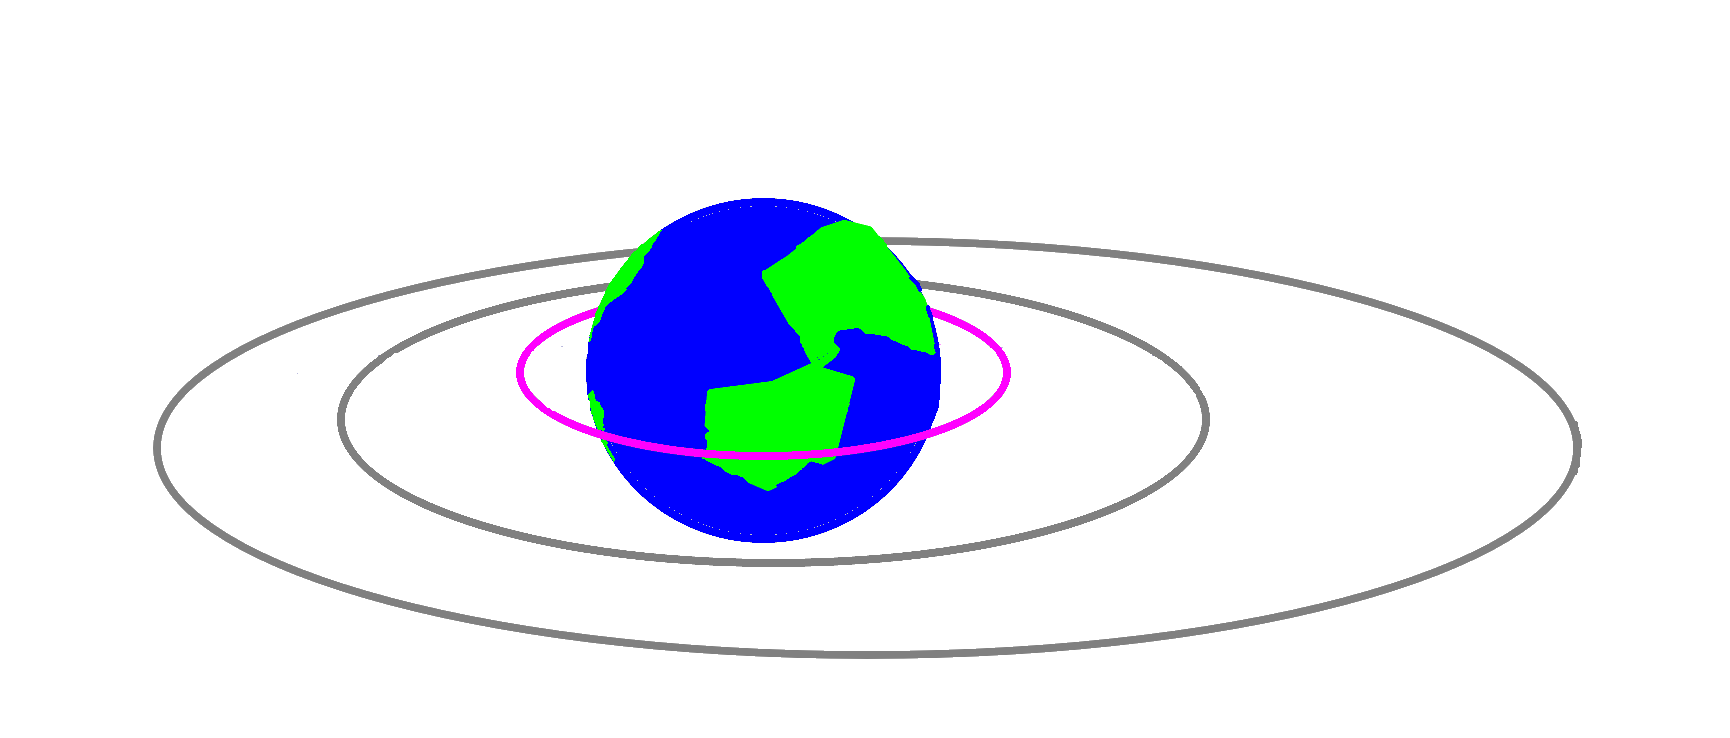
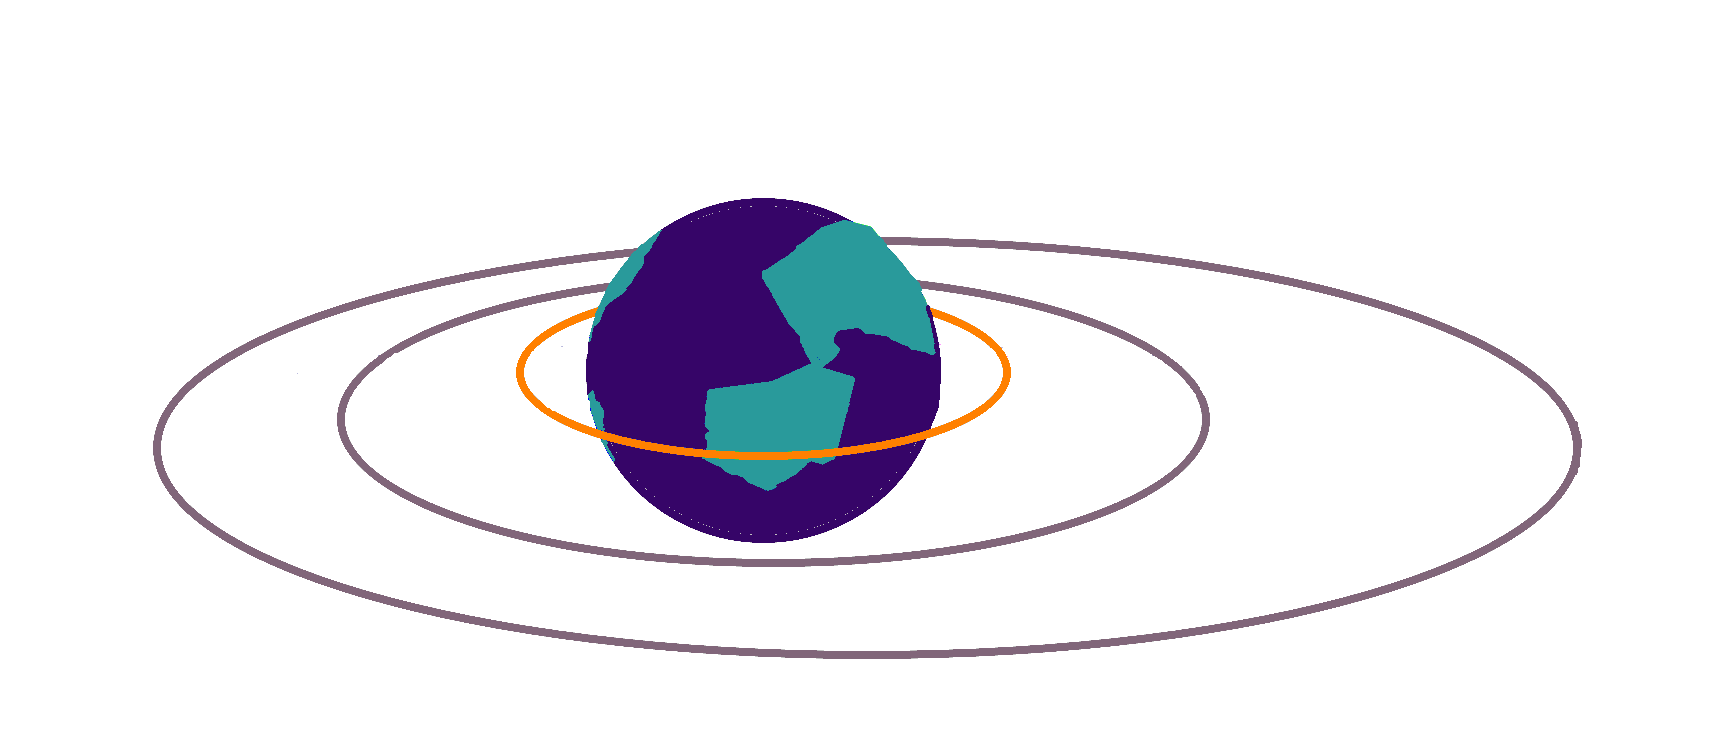
Changing some Visual aspects and Orbits in Simulation (#89)

diff --git a/frontend-vue/src/views/Simulation.vue b/frontend-vue/src/views/Simulation.vue
@@ -19,8 +19,8 @@ const props = defineProps<{
 }>()
 
 const basic_alt = 153000 + 6371 * 1000 // Add Earth's radius
-const showOrbit = ref(false);
-const CURRENT_COLOR = '#34b4b5' //'#FF00FF' // '#F5EEF8' (pink);
+const showOrbit = ref(true);
+const CURRENT_COLOR = '#34b4b5' //Blue
 const satellites = ref<Satellite[]>([]);
 
 let sat: Satellite
@@ -60,8 +60,6 @@ function update_display(sat: Satellite) {
   e.value = sat.satData.ecco * 100
   picked.value = 0
 
-  showOrbit.value = false // TODO: I am not 100% sure, maybe it should be true
-
   // Update sat-list
   satellites.value = props.simulation.getNameOfSats()
 }
@@ -83,11 +81,8 @@ function add_new_satellite(alt: number) {
   update_display(new_sat)
   new_sat.country = 'NL'
 
-  // Orbit
-  if (showOrbit.value) {
-    const orbit = props.simulation.addOrbit(new_sat, true)
-    new_sat.setOrbit(orbit)
-  }
+  // Add orbit
+  create_orbit(new_sat)
 
   // Update sat-list
   satellites.value = props.simulation.getNameOfSats()
@@ -102,17 +97,30 @@ function add_new_satellite(alt: number) {
  *  */
 function change_selected(satellite: Satellite) {
   if (satellite != sat) {
+    // Remove prev orbit display
+    if (sat){
+      props.simulation.removeOrbit(sat)
+    }
     set_current_sat(satellite)
     props.simulation.deselect()
     props.simulation.setCurrentlySelected(satellite)
     props.simulation.changeColor(CURRENT_COLOR, satellite)
     update_display(sat)
+    // Show orbit
+    create_orbit(satellite)
   }
 }
 
 function set_current_sat(satellite: Satellite) {
   sat = satellite
   current_sat.value = sat
+}
+
+function create_orbit(satellite: Satellite){
+  // Add orbit
+  props.simulation.removeOrbit(satellite)
+  const orbit = props.simulation.addOrbit(satellite, true)
+  satellite.setOrbit(orbit)
 }
 
 // ********* SLIDERS *********
@@ -186,16 +194,6 @@ watch(remove, (newValue) => {
   }
 })
 
-// ********* ORBIT shown *********
-watch(showOrbit, (newValue) => {
-  if (newValue === true) {
-    const orbit = props.simulation.addOrbit(sat, true)
-    sat.setOrbit(orbit)
-  } else {
-    props.simulation.removeOrbit(sat)
-  }
-})
-
 // ********* Clicked sat can be edited *********
 props.simulation.addEventListener('select', (satellite) => {
   if (satellite) {
@@ -249,16 +247,12 @@ props.simulation.addEventListener('select', (satellite) => {
     </div>
     <br />
     <div class="button-box">
-      <button class="add-button" @click="add = 1" style="text-align: center">
-        {{ t('Add another satellite') }}
+      <button class="add-del-button" @click="add = 1" style="text-align: center">
+        {{ t('Add satellite') }}
       </button>
-      <button class="del-button" @click="remove = 1" style="text-align: center">
+      <button class="add-del-button" @click="remove = 1" style="text-align: center">
         {{ t('Delete satellites') }}
       </button>
-    </div>
-    <div class="show-orbit-check">
-      <input type="checkbox" id="show-orbit" v-model="showOrbit" />
-      <label for="show-orbit">{{ t('Show orbit') }} {{ t(showOrbit.toString()) }}</label>
     </div>
     <div class="orbit-sat">
       <h2>{{ t('Orbit Category') }}</h2>
@@ -268,6 +262,7 @@ props.simulation.addEventListener('select', (satellite) => {
         <span :class="{ category: true, highlight: picked === 1 }" id="MEO">MEO</span>
         <span :class="{ category: true, highlight: picked == 2 }" id="Other">Other</span>
       </div>
+
       <div class="orbit-info" v-show="picked === 0">
         <h3>{{ t('Low Earth Orbit') }}</h3>
         <p>{{ t('Height') }}: 160-2000 km</p>
@@ -289,7 +284,7 @@ props.simulation.addEventListener('select', (satellite) => {
   <SpeedButtons :simulation="props.simulation" />
 
   <div class="right-info-block">
-    <h2>Satellites Created</h2>
+    <h2>{{t("Satellites Created")}}</h2>
     <div class="satellite-list">
       <div
         v-for="satellite in satellites"
@@ -337,37 +332,34 @@ h3 {
   justify-content: space-between;
 }
 
-.add-button {
-  appearance: none;
-  width: 50%;
-  padding: 5px;
-  background-color: rgba(45, 155, 156, 0.45);
-  border-radius: 200px;
-  cursor: pointer;
-  color: white;
-}
+.add-del-button {
+  // appearance: none;
+  // width: 50%;
+  // padding: 5px;
+  // background-color: rgba(45, 155, 156, 0.45);
+  // border-radius: 200px;
+  // cursor: pointer;
+  // color: white;
 
-.del-button {
-  appearance: none;
-  background-color: rgba(45, 155, 156, 0.45);
-  border-radius: 200px;
+  margin: 0 5px;
+  border: none;
+  border-radius: 0.5em;
+  padding: 0.5em 1em;
   color: white;
-}
+  background-color: rgba(45, 155, 156, 1)
 
-.show-orbit-check {
-  display: flex;
-  appearance: none;
-  align-self: center;
 }
 
 .orbit-sat {
   width: 100%;
+  padding-top: 10%;
 }
 
 .orbit-info {
   right: 20%;
   height: 200px;
   width: 100%;
+  padding-top: 2%;
 }
 
 .display {
@@ -384,8 +376,8 @@ h3 {
   appearance: none;
   width: 100%;
   height: 5px;
-  background: #e8f8e5;
-  outline: #e8f8e5;
+  background: #f8faf8;
+  outline: #f9fdf9;
   opacity: 1;
   -webkit-transition: 0.2s;
   transition: opacity 0.2s;
@@ -407,7 +399,7 @@ h3 {
 }
 
 .highlight {
-  background-color: rgba(45, 155, 156, 0.45);
+  background-color: rgba(45, 155, 156, 0.6);
   padding: 5px;
 }
 
@@ -447,12 +439,13 @@ h3 {
   {
     "en": {
       "Simulation Variables": "Simulation Variables",
+      "Satellites Created": "Satellites Created",
       "New satellite": "New Satellite",
       "Height": "Height",
       "Inclination": "Inclination",
       "RAAN": "RAAN",
       "Eccentricity": "Eccentricity",
-      "Add another satellite": "Add another satellite",
+      "Add satellite": "Add satellite",
       "Delete satellites": "Delete satellites",
       "Show orbit": "Show orbit",
       "Orbit Category": "Orbit Category",
@@ -464,12 +457,13 @@ h3 {
     },
     "nl": {
       "Simulation Variables": "Simulatie Variabelen",
+      "Satellites Created": "Satellieten gemaakt",
       "New satellite": "Nieuwe satelliet",
       "Height": "Hoogte",
       "Inclination": "Inclinatie",
       "RAAN": "RAAN",
       "Eccentricity": "Excentriciteit",
-      "Add another satellite": "Voeg een andere satelliet toe",
+      "Add satellite": "Voeg een satelliet toe",
       "Delete satellites": "Verwijder satellieten",
       "Show orbit": "Toon baan",
       "Orbit Category": "Baancategorie",

diff --git a/frontend-vue/src/views/HomeView.vue b/frontend-vue/src/views/HomeView.vue
@@ -3,6 +3,10 @@ import { ThreeSimulation } from '@/Sim'
 import { useI18n } from 'vue-i18n'
 const { t } = useI18n()
 
+// rgb(54, 5, 104, 0.40) // Dark purple
+// rgb(212, 203, 229, 0.40) // Light purple
+// rgba(45, 155, 156, 0.45) // Blue
+
 const props = defineProps<{
   simulation: ThreeSimulation
 }>()
@@ -76,6 +80,7 @@ props.simulation.moveRight()
   }
 }
 
+
 .container {
   display: flex;
   flex-direction: column;
@@ -91,8 +96,8 @@ props.simulation.moveRight()
     min-height: 10vh;
     padding-left: 1%;
 
-    border-radius: 2pt;
-    background-color: #090929;
+    border-radius: 20pt;
+    background-color: rgba(51, 75, 75, 0.278);
 
     display: flex;
     align-items: center;
@@ -104,6 +109,7 @@ props.simulation.moveRight()
     h2 {
       font-size: 3em;
       color: white;
+      font-family: 'Tomorrow';
     }
   }
 }
@@ -113,8 +119,10 @@ props.simulation.moveRight()
   bottom: 0;
   right: 0;
   margin: 1em;
-  background-color: blueviolet;
-  width: 5vw;
+  border-radius: 10pt;
+  padding: 10pt;
+  background-color: rgba(45, 155, 156, 0.45);
+  font-family: 'Tomorrow';
 
   a {
     color: white;

diff --git a/frontend-vue/src/Orbit.ts b/frontend-vue/src/Orbit.ts
@@ -124,7 +124,6 @@ export class Orbit {
   }
 
   removeLine(scene: THREE.Scene) {
-    console.log("TEST REMOVELINE")
     if (this.line && this.lineGeometry) {
       scene.remove(this.line)
       this.lineGeometry.setDrawRange(0, 0)
